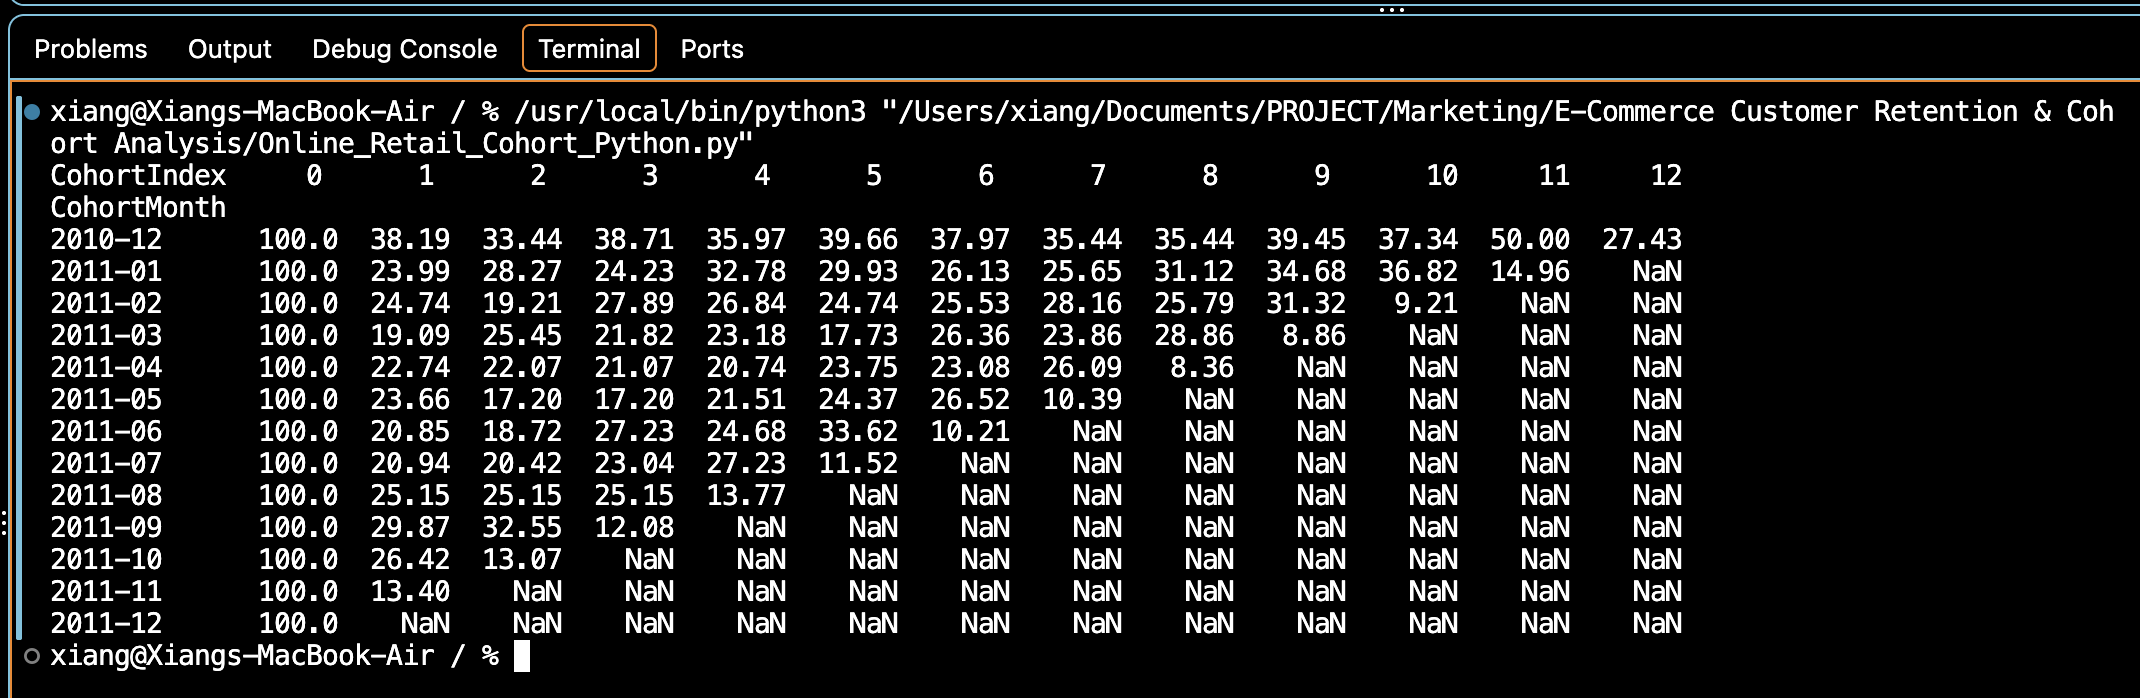
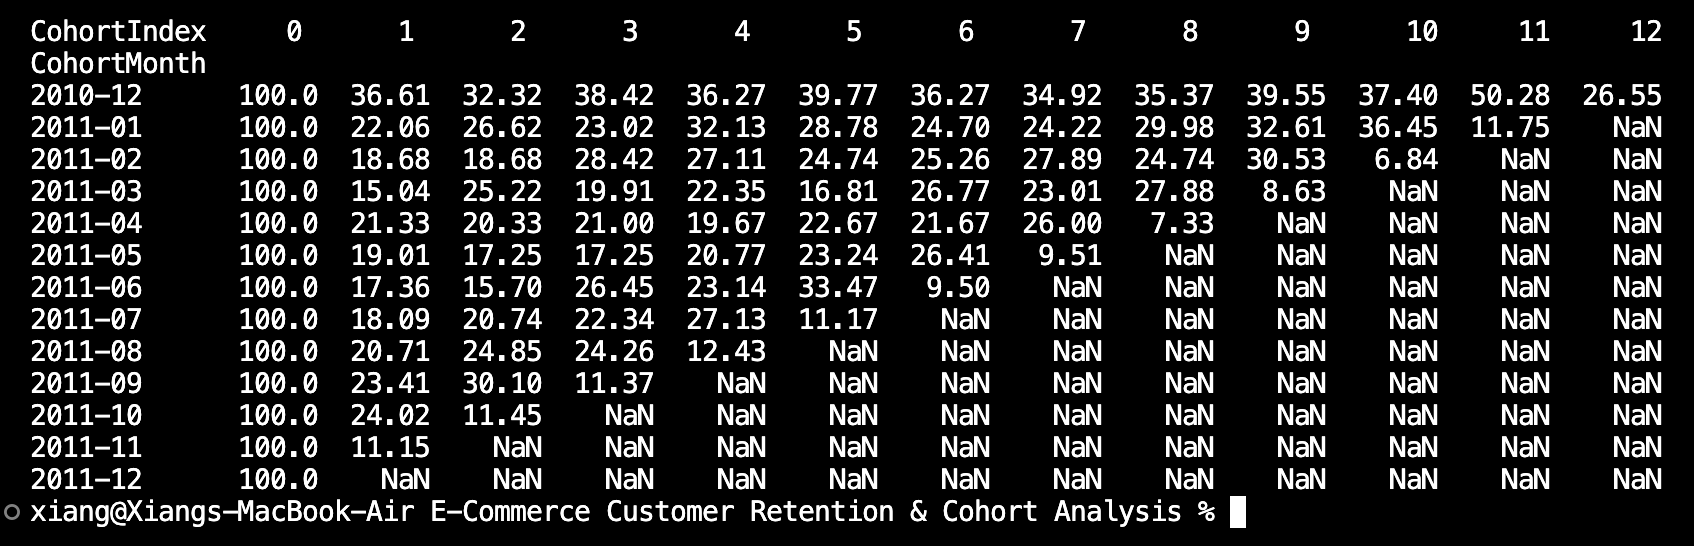
Filter cancelled invoices, add output file, update README insights

Changed region(s): [[0.0, 0.0, 1.0, 0.9652]]

diff --git a/Online_Retail_Cohort_Python.py b/Online_Retail_Cohort_Python.py
@@ -1,19 +1,27 @@
 import pandas as pd
+from pathlib import Path
 
-file_path = '/Users/xiang/Documents/PROJECT/Marketing/E-Commerce Customer Retention & Cohort Analysis/online_retail_dataset_cohort.xlsx'
-df = pd.read_excel(file_path, sheet_name='online_retail')
+BASE = Path(__file__).parent
 
+# 1) Load data
+df = pd.read_excel(BASE / 'online_retail_dataset_cohort.xlsx', sheet_name='online_retail')
+
+# 2) Clean data
 df = df.dropna(subset=['CustomerID'])
+df = df[~df['InvoiceNo'].astype(str).str.startswith('C')]   # remove cancelled invoices
+df = df[(df['Quantity'] > 0) & (df['UnitPrice'] > 0)]       # remove returns / invalid prices
 
+# 3) Dates and cohort month
 df['InvoiceDate'] = pd.to_datetime(df['InvoiceDate'])
 df['InvoiceMonth'] = df['InvoiceDate'].dt.to_period('M')
-
 df['CohortMonth'] = df.groupby('CustomerID')['InvoiceMonth'].transform('min')
 
+# 4) Cohort index (months since first purchase)
 year_diff = df['InvoiceMonth'].dt.year - df['CohortMonth'].dt.year
 month_diff = df['InvoiceMonth'].dt.month - df['CohortMonth'].dt.month
 df['CohortIndex'] = year_diff * 12 + month_diff
 
+# 5) Retention matrix
 cohort_data = df.groupby(['CohortMonth', 'CohortIndex'])['CustomerID'].nunique().reset_index()
 cohort_pivot = cohort_data.pivot(index='CohortMonth', columns='CohortIndex', values='CustomerID')
 
@@ -22,5 +30,5 @@ retention_matrix = cohort_pivot.divide(cohort_size, axis=0) * 100
 
 print(retention_matrix.round(2))
 
-
-
+# 6) Save output
+retention_matrix.round(2).to_excel(BASE / 'Retention_Matrix_Python.xlsx')

diff --git a/readme.md b/readme.md
@@ -1,25 +1,5 @@
-# 📊 E-Commerce Customer Retention & Cohort Analysis
-
-This project analyzes customer purchasing behavior and retention rates for an online retail dataset using Python (Pandas) and Excel. The objective is to track how long customers continue to make purchases after their first transaction (Cohort Analysis).
-
----
-
-## 🚀 Project Workflow & Steps
-1. Data Cleaning: Loaded the dataset and cleaned missing values (filtered out rows with missing `CustomerID`).
-2. Date Processing: Extracted transaction months (`InvoiceMonth`) and determined each customer's first purchase month (`CohortMonth`).
-3. Cohort Index Calculation: Calculated the relative month index (`CohortIndex`) representing the age of the customer's lifecycle.
-4. Pivot Table Creation: Grouped data by `CohortMonth` and `CohortIndex` to calculate unique active customers (`.nunique()`).
-5. Retention Matrix Calculation: Converted absolute customer counts into percentages (%) relative to the initial month size.
-
----
-
-## 📈 Results & Business Insights
-![Retention Matrix Results](retention_matrix.png)
-- Customer Churn: The highest customer drop-off typically occurs right after the first month (Index 1).
-- Long-term Loyalty: Certain cohorts show sustained repeat purchases over a 12-month period, indicating strong brand loyalty.
-
----
-
-## 🛠 Built With
-- Python (Pandas library)
-- Microsoft Excel (Data inspection and validation)
+## 💡 Key Insights
+- **Largest drop-off is after month 0:** only about 11–37% of customers return in the following month, depending on the cohort.
+- **The Dec 2010 cohort retains best (about 27–50%)** because it likely includes existing customers who were already buying before the data starts, so it should not be read as a pure new-customer cohort.
+- **Retention is similar across the 2011 cohorts:** roughly 15–25% in month 1, with no clear improvement over time.
+- **Final-month values are understated:** the dataset ends on 9 Dec 2011, so the last value of each cohort (e.g. 6–12%) reflects an incomplete month, not real churn.
